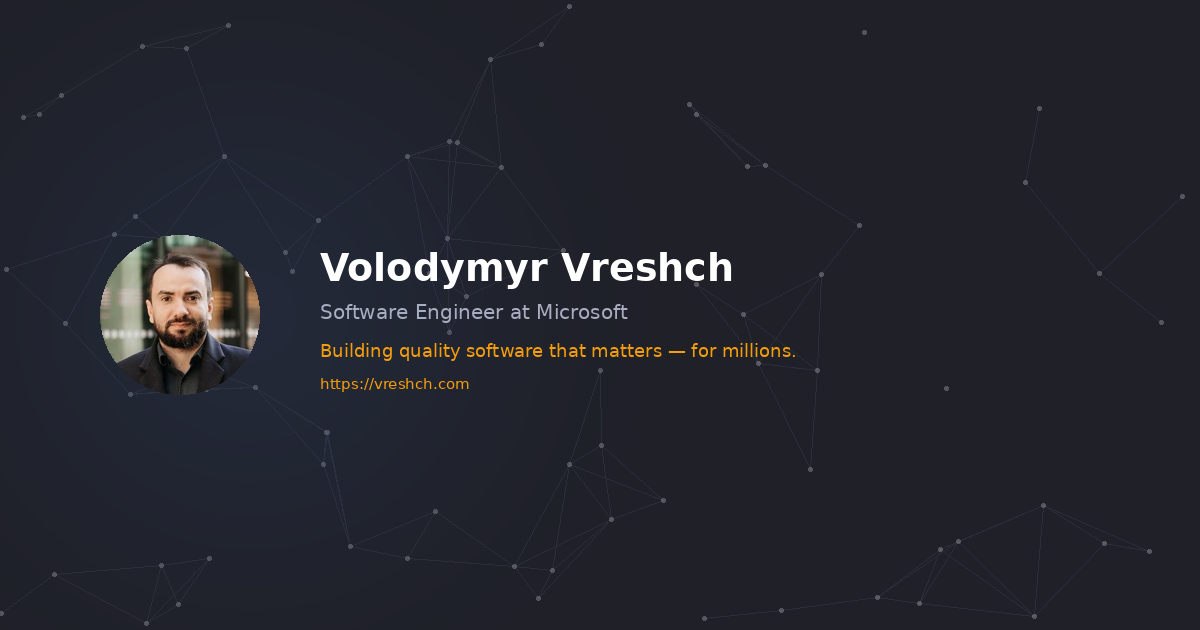
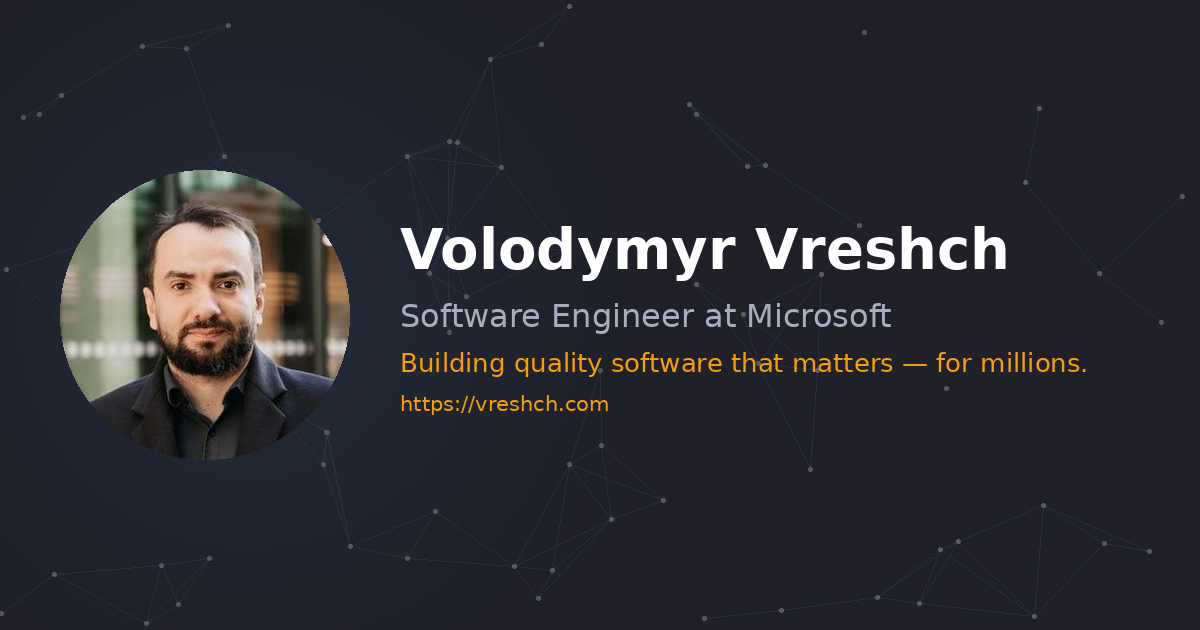
fix: improve OG image — larger photo, bigger text, balanced spacing

Changed region(s): [[0.0308, 0.2714, 0.8942, 0.7238]]

diff --git a/scripts/generate-og-image.py b/scripts/generate-og-image.py
@@ -19,6 +19,20 @@ WIDTH, HEIGHT = 1200, 630
 BG_COLOR = "#1f2028"
 SEED = 42
 
+# Layout
+PADDING = 60
+PHOTO_SIZE = 290
+GAP = 50
+PHOTO_X = PADDING
+PHOTO_Y = (HEIGHT - PHOTO_SIZE) // 2
+TEXT_X = PHOTO_X + PHOTO_SIZE + GAP
+
+# Font sizes
+NAME_SIZE = 56
+TITLE_SIZE = 32
+TAGLINE_SIZE = 26
+URL_SIZE = 21
+
 
 def hex_to_rgb(h: str) -> tuple[int, int, int]:
     h = h.lstrip("#")
@@ -43,10 +57,9 @@ def main() -> None:
     img = Image.new("RGB", (WIDTH, HEIGHT), BG_COLOR)
     draw = ImageDraw.Draw(img)
 
-    # Voronoi network (seed=42, 80 points, max_dist=120)
+    # Voronoi network
     rng = random.Random(SEED)
     points = [(rng.randint(0, WIDTH), rng.randint(0, HEIGHT)) for _ in range(80)]
-
     for i, (x1, y1) in enumerate(points):
         for x2, y2 in points[i + 1 :]:
             if math.sqrt((x1 - x2) ** 2 + (y1 - y2) ** 2) < 120:
@@ -59,7 +72,7 @@ def main() -> None:
         dot_draw.ellipse((x - 2, y - 2, x + 2, y + 2), fill=(255, 255, 255, 60))
     img = Image.alpha_composite(img.convert("RGBA"), dot_overlay).convert("RGB")
 
-    # Navy glow behind photo
+    # Navy glow
     glow_overlay = Image.new("RGBA", (WIDTH, HEIGHT), (0, 0, 0, 0))
     glow_draw = ImageDraw.Draw(glow_overlay)
     bg_rgb = hex_to_rgb(BG_COLOR)
@@ -73,16 +86,18 @@ def main() -> None:
 
     # Profile photo
     if PROFILE.exists():
-        photo = Image.open(PROFILE).resize((160, 160), Image.LANCZOS)
-        img.paste(photo, (100, 235), make_circle_mask(160))
+        photo = Image.open(PROFILE).resize((PHOTO_SIZE, PHOTO_SIZE), Image.LANCZOS)
+        img.paste(photo, (PHOTO_X, PHOTO_Y), make_circle_mask(PHOTO_SIZE))
 
-    # Text
+    # Text — vertically centered
+    text_h = NAME_SIZE + 24 + TITLE_SIZE + 18 + TAGLINE_SIZE + 18 + URL_SIZE
+    ty = (HEIGHT - text_h) // 2
+
     draw = ImageDraw.Draw(img)
-    ty = 245
-    draw.text((320, ty), "Volodymyr Vreshch", fill="#ffffff", font=load_font(38, bold=True))
-    draw.text((320, ty + 55), "Software Engineer at Microsoft", fill="#a9adc1", font=load_font(20))
-    draw.text((320, ty + 95), "Building quality software that matters \u2014 for millions.", fill="#f59e0b", font=load_font(18))
-    draw.text((320, ty + 130), "https://vreshch.com", fill="#f59e0b", font=load_font(15))
+    draw.text((TEXT_X, ty), "Volodymyr Vreshch", fill="#ffffff", font=load_font(NAME_SIZE, bold=True))
+    draw.text((TEXT_X, ty + NAME_SIZE + 24), "Software Engineer at Microsoft", fill="#a9adc1", font=load_font(TITLE_SIZE))
+    draw.text((TEXT_X, ty + NAME_SIZE + TITLE_SIZE + 42), "Building quality software that matters \u2014 for millions.", fill="#f59e0b", font=load_font(TAGLINE_SIZE))
+    draw.text((TEXT_X, ty + NAME_SIZE + TITLE_SIZE + TAGLINE_SIZE + 60), "https://vreshch.com", fill="#f59e0b", font=load_font(URL_SIZE))
 
     img.save(OUTPUT, "PNG", optimize=True)
     print(f"Saved to {OUTPUT} ({OUTPUT.stat().st_size / 1024:.0f} KB)")
